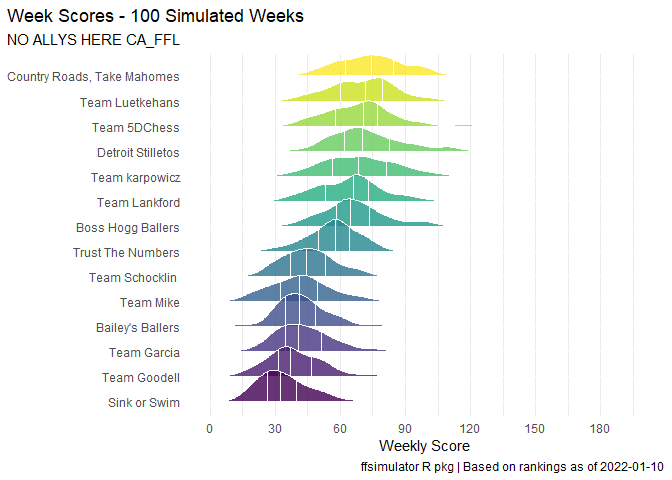
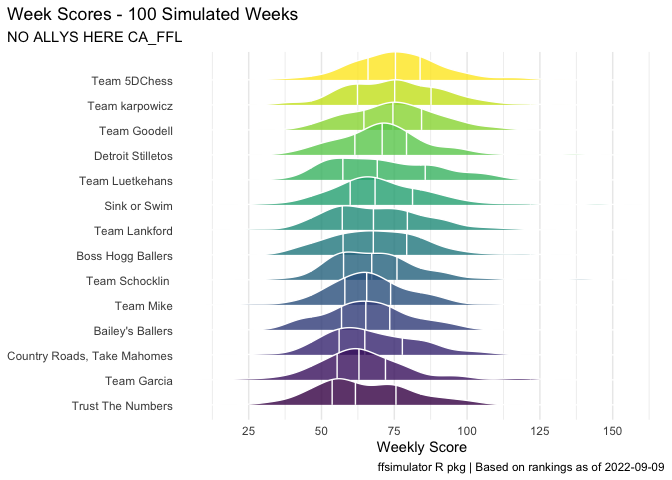
Updated week 1 simulation

diff --git a/Week 1/README.md b/Week 1/README.md
@@ -9,10 +9,10 @@
 The overall results of simulating Week 1 season 100 times are shown
 below.
 
-|        Metric         |            Team             | Value |
-|:---------------------:|:---------------------------:|:-----:|
-|  Highest Points For   | Country Roads, Take Mahomes |  74   |
-| Lowest Points Against |      Bailey’s Ballers       |  32   |
+|        Metric         |       Team        | Value |
+|:---------------------:|:-----------------:|:-----:|
+|  Highest Points For   |   Team 5DChess    |  75   |
+| Lowest Points Against | Detroit Stilletos |  62   |
 
 ## Predicted Results
 
@@ -38,44 +38,16 @@ Team 2 Score
 <tbody>
 <tr>
 <td style="text-align:center;">
-Bailey’s Ballers
-</td>
-<td style="text-align:center;">
-Sink or Swim
-</td>
-<td style="text-align:center;">
-41
-</td>
-<td style="text-align:center;">
-32
-</td>
-</tr>
-<tr>
-<td style="text-align:center;">
 Boss Hogg Ballers
 </td>
 <td style="text-align:center;">
 Team Garcia
 </td>
 <td style="text-align:center;">
-65
+68
 </td>
 <td style="text-align:center;">
-41
-</td>
-</tr>
-<tr>
-<td style="text-align:center;">
-Country Roads, Take Mahomes
-</td>
-<td style="text-align:center;">
-Team Schocklin
-</td>
-<td style="text-align:center;">
-74
-</td>
-<td style="text-align:center;">
-45
+63
 </td>
 </tr>
 <tr>
@@ -86,10 +58,52 @@ Detroit Stilletos
 Trust The Numbers
 </td>
 <td style="text-align:center;">
-70
+71
 </td>
 <td style="text-align:center;">
-58
+62
+</td>
+</tr>
+<tr>
+<td style="text-align:center;">
+Sink or Swim
+</td>
+<td style="text-align:center;">
+Bailey’s Ballers
+</td>
+<td style="text-align:center;">
+68
+</td>
+<td style="text-align:center;">
+65
+</td>
+</tr>
+<tr>
+<td style="text-align:center;">
+Team 5DChess
+</td>
+<td style="text-align:center;">
+Team Luetkehans
+</td>
+<td style="text-align:center;">
+75
+</td>
+<td style="text-align:center;">
+69
+</td>
+</tr>
+<tr>
+<td style="text-align:center;">
+Team Goodell
+</td>
+<td style="text-align:center;">
+Team karpowicz
+</td>
+<td style="text-align:center;">
+75
+</td>
+<td style="text-align:center;">
+75
 </td>
 </tr>
 <tr>
@@ -100,10 +114,10 @@ Team karpowicz
 Team Goodell
 </td>
 <td style="text-align:center;">
-68
+75
 </td>
 <td style="text-align:center;">
-37
+75
 </td>
 </tr>
 <tr>
@@ -114,24 +128,24 @@ Team Lankford
 Team Mike
 </td>
 <td style="text-align:center;">
-66
+68
 </td>
 <td style="text-align:center;">
-41
+66
 </td>
 </tr>
 <tr>
 <td style="text-align:center;">
-Team Luetkehans
+Team Schocklin
 </td>
 <td style="text-align:center;">
-Team 5DChess
+Country Roads, Take Mahomes
 </td>
 <td style="text-align:center;">
-72
+67
 </td>
 <td style="text-align:center;">
-70
+65
 </td>
 </tr>
 </tbody>
